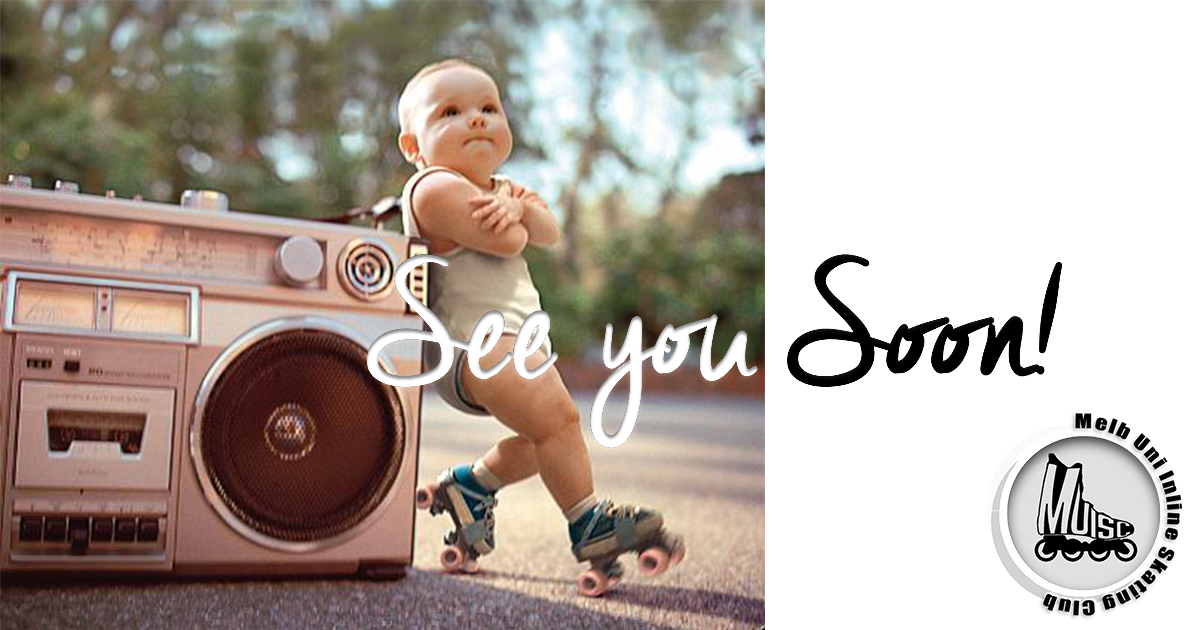
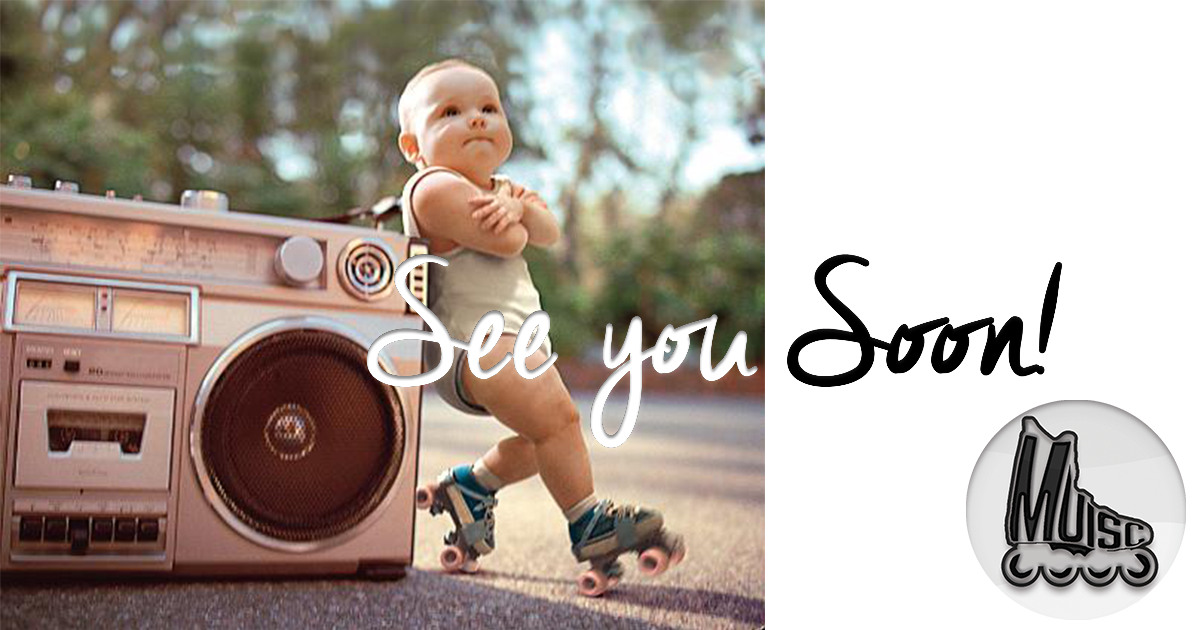
Bug fixes

Changed region(s): [[0.8017, 0.6333, 1.0, 0.9952]]

diff --git a/index.html b/index.html
@@ -47,8 +47,8 @@
 <!-- notification for small viewports and landscape oriented smartphones -->
 <div class="device-notification">
     <a class="device-notification--logo" href="https://muisc.github.io/o/">
-        <img src="assets/img/logo.png"  alt="MUISC">
-        <p>MUISC</p>
+        <img style="height:100px;width:100px" src="assets/img/logo.png"  alt="MUISC">
+        <p></p>
     </a>
     <p class="device-notification--message">MUISC</p>
 </div>
